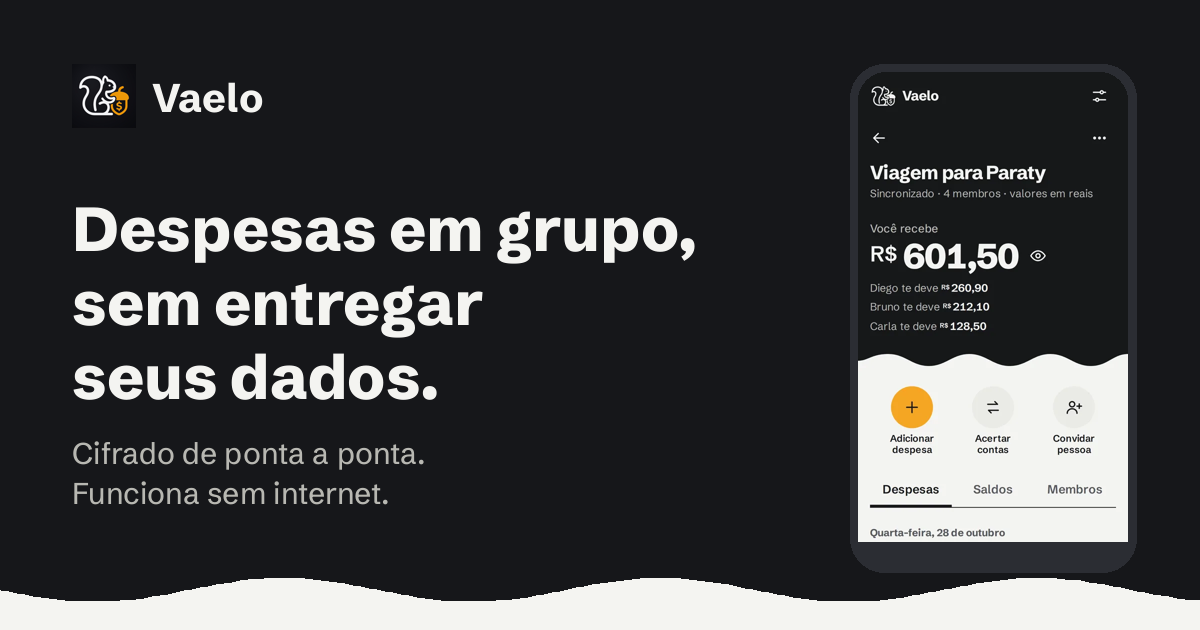
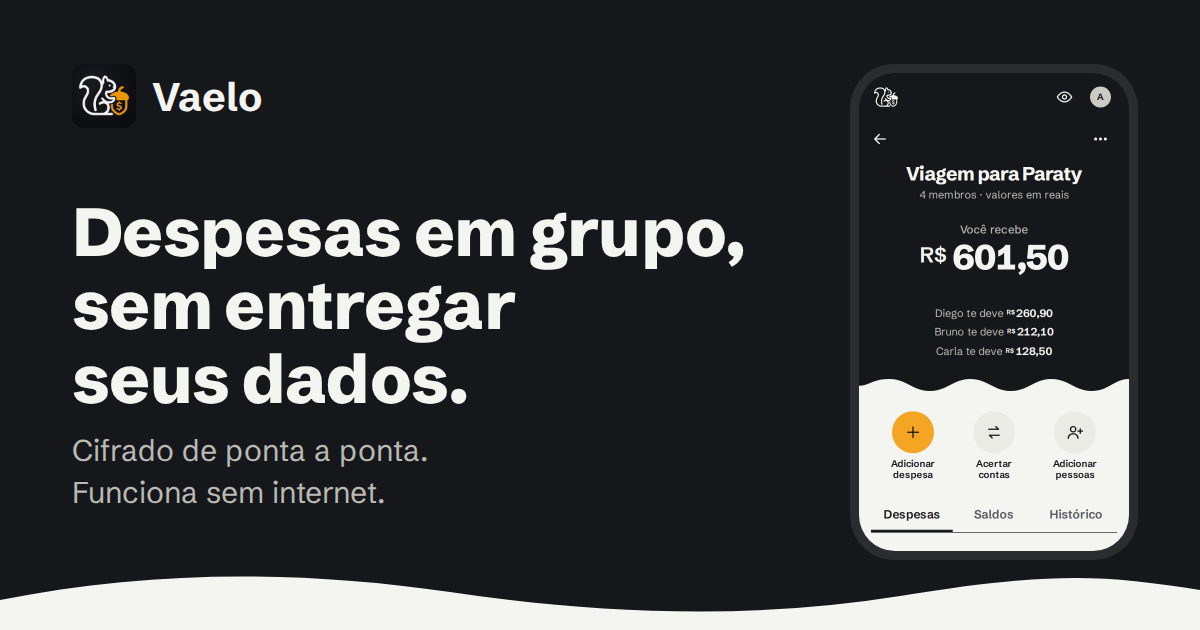
feat(#167): capturas do app no design atual (og.png, tela-1.webp), textos alinhados a D19 e preco do Pro
- og.png e tela-1.webp refeitos da web atual no mesmo cenario e layout; tela-2.webp (sem uso) removida
- IPCA/INPC -> IPCA-15 ou INPC (padrao IPCA-15; IPCA mensal depreciado) na inicial, Pro e llms; '100% Offline' -> 'Funciona sem internet'
- Pro: sem tabular-nums no preco ('R$ 59 , 90' -> 'R$ 59,90')

Refs NexaDuo/vaelo#167

Claude-Session: https://claude.ai/code/session_01DAuwvqBcUW5DKRKffa83Hp

diff --git a/index.html b/index.html
@@ -6,7 +6,7 @@
 <meta http-equiv="Content-Security-Policy" content="default-src 'none'; img-src 'self' https://*.clarity.ms https://c.bing.com; style-src 'self' 'unsafe-inline'; font-src 'self'; script-src 'self' https://*.clarity.ms; connect-src https://*.clarity.ms https://c.bing.com; base-uri 'none'; form-action 'none'">
 <meta name="referrer" content="no-referrer">
 <title>Vaelo: app para dividir despesas em grupo, com privacidade e IPCA</title>
-<meta name="description" content="App para dividir despesas em grupo com dados cifrados nos aparelhos, funcionamento sem internet e correção pelo IPCA/INPC. No celular ou computador.">
+<meta name="description" content="App para dividir despesas em grupo com dados cifrados nos aparelhos, funcionamento sem internet e correção pela inflação (IPCA-15 ou INPC). No celular ou computador.">
 <meta name="keywords" content="dividir despesas, app dividir contas, alternativa splitwise, despesas grupo viagem, rateio de contas, despesas da casa, correção ipca, inpc ibge, splitwise brasileiro, local first, criptografia ponta a ponta, vaelo">
 <meta name="robots" content="index,follow,max-image-preview:large">
 <link rel="canonical" href="https://vaelo.club/">
@@ -16,14 +16,14 @@
 <meta property="og:locale" content="pt_BR">
 <meta property="og:url" content="https://vaelo.club/">
 <meta property="og:title" content="Vaelo: app para dividir despesas em grupo, com privacidade e IPCA">
-<meta property="og:description" content="App para dividir despesas em grupo (viagem, casa, amigos) com dados cifrados nos aparelhos, funcionamento sem internet e correção pela inflação (IPCA/INPC). No celular ou computador.">
+<meta property="og:description" content="App para dividir despesas em grupo (viagem, casa, amigos) com dados cifrados nos aparelhos, funcionamento sem internet e correção pela inflação (IPCA-15 ou INPC). No celular ou computador.">
 <meta property="og:image" content="https://vaelo.club/og.png">
 <meta property="og:image:width" content="1200">
 <meta property="og:image:height" content="630">
 <meta property="og:image:alt" content="Vaelo — aplicativo para dividir despesas em grupo com privacidade e IPCA">
 <meta name="twitter:card" content="summary_large_image">
 <meta name="twitter:title" content="Vaelo: app para dividir despesas em grupo, com privacidade e IPCA">
-<meta name="twitter:description" content="App para dividir despesas em grupo (viagem, casa, amigos) com dados cifrados nos aparelhos, funcionamento sem internet e correção pela inflação (IPCA/INPC). No celular ou computador.">
+<meta name="twitter:description" content="App para dividir despesas em grupo (viagem, casa, amigos) com dados cifrados nos aparelhos, funcionamento sem internet e correção pela inflação (IPCA-15 ou INPC). No celular ou computador.">
 <meta name="twitter:image" content="https://vaelo.club/og.png">
 <meta name="twitter:image:alt" content="Vaelo — aplicativo para dividir despesas em grupo com privacidade e IPCA">
 <meta name="theme-color" content="#16171a">
@@ -635,7 +635,7 @@ main {
           "name": "Plano Gratuito",
           "price": "0",
           "priceCurrency": "BRL",
-          "description": "Até 5 novas despesas por dia em cada grupo, com rateio completo e correção pelo IPCA grátis para sempre.",
+          "description": "Até 5 novas despesas por dia em cada grupo, com rateio completo e correção pela inflação grátis para sempre.",
           "shippingDetails": {
             "@type": "OfferShippingDetails",
             "shippingRate": {
@@ -771,7 +771,7 @@ main {
       "screenshot": "https://vaelo.club/tela-1.webp",
       "featureList": [
         "Divisão de despesas em grupo para viagens, casa e amigos",
-        "Correção monetária oficial pelo IPCA e INPC do IBGE para dívidas antigas",
+        "Correção monetária oficial pelo IPCA-15 ou INPC do IBGE para dívidas antigas",
         "Criptografia de ponta a ponta com dados guardados nos aparelhos (E2EE)",
         "Servidor repassa apenas blocos cifrados, apagados em até 90 dias",
         "A NexaDuo não consegue ler os lançamentos nem os valores",
@@ -803,7 +803,7 @@ main {
           "name": "O Vaelo é gratuito?",
           "acceptedAnswer": {
             "@type": "Answer",
-            "text": "Sim, o Vaelo tem plano gratuito para sempre, com até 5 novas despesas criadas por dia por grupo, todos os 4 tipos de rateio e correção pela inflação (IPCA/INPC) inclusa sem custo. O app não exibe anúncios nem usa ferramentas de rastreamento."
+            "text": "Sim, o Vaelo tem plano gratuito para sempre, com até 5 novas despesas criadas por dia por grupo, todos os 4 tipos de rateio e correção pela inflação (IPCA-15 ou INPC) inclusa sem custo. O app não exibe anúncios nem usa ferramentas de rastreamento."
           }
         },
         {
@@ -819,15 +819,15 @@ main {
           "name": "O Vaelo é uma alternativa ao Splitwise?",
           "acceptedAnswer": {
             "@type": "Answer",
-            "text": "Sim, serve para o mesmo propósito de dividir contas entre amigos, mas resolve os principais problemas do Splitwise: os dados ficam cifrados de ponta a ponta nos aparelhos e o servidor não lê suas contas; inclui correção automática pela inflação brasileira (IPCA e INPC); e no plano Pro, basta uma pessoa assinar para liberar o grupo inteiro para todo mundo."
+            "text": "Sim, serve para o mesmo propósito de dividir contas entre amigos, mas resolve os principais problemas do Splitwise: os dados ficam cifrados de ponta a ponta nos aparelhos e o servidor não lê suas contas; inclui correção automática pela inflação brasileira (IPCA-15 ou INPC); e no plano Pro, basta uma pessoa assinar para liberar o grupo inteiro para todo mundo."
           }
         },
         {
           "@type": "Question",
-          "name": "O Vaelo atualiza dívidas pela inflação (IPCA e INPC)?",
+          "name": "O Vaelo atualiza dívidas pela inflação (IPCA-15 e INPC)?",
           "acceptedAnswer": {
             "@type": "Answer",
-            "text": "Sim. O Vaelo consulta diretamente os índices oficiais do IBGE (SIDRA) para atualizar o valor de despesas antigas pelo IPCA ou INPC. Você escolhe o índice do grupo ou por despesa, e a correção é calculada de forma justa e transparente, sem cobrar nada a mais por isso."
+            "text": "Sim. O Vaelo consulta diretamente os índices oficiais do IBGE (SIDRA) para atualizar o valor de despesas antigas pelo IPCA-15 (o padrão) ou pelo INPC. Você escolhe o índice do grupo ou por despesa, e a correção é calculada de forma justa e transparente, sem cobrar nada a mais por isso."
           }
         },
         {
@@ -926,7 +926,7 @@ main {
     </li>
     <li class="stone-row">
       <span class="stone-bullet" aria-hidden="true"></span>
-      <h2>Correção oficial por IPCA e INPC</h2>
+      <h2>Correção oficial por IPCA-15 e INPC</h2>
       <p class="stone-desc">Dívidas antigas não perdem valor: o Vaelo busca os índices oficiais do IBGE e atualiza os saldos pela inflação automaticamente, de graça.</p>
     </li>
     <li class="stone-row">
@@ -981,7 +981,7 @@ main {
       </details>
       <details class="faq-item">
         <summary class="faq-summary">O Vaelo é gratuito?</summary>
-        <p class="faq-desc">Sim, o Vaelo tem plano gratuito para sempre, com até 5 novas despesas criadas por dia por grupo, todos os 4 tipos de rateio e correção pela inflação (IPCA/INPC) inclusa sem custo. O app não exibe anúncios nem usa ferramentas de rastreamento.</p>
+        <p class="faq-desc">Sim, o Vaelo tem plano gratuito para sempre, com até 5 novas despesas criadas por dia por grupo, todos os 4 tipos de rateio e correção pela inflação (IPCA-15 ou INPC) inclusa sem custo. O app não exibe anúncios nem usa ferramentas de rastreamento.</p>
       </details>
       <details class="faq-item">
         <summary class="faq-summary">Como funciona o plano Vaelo Pro?</summary>
@@ -989,11 +989,11 @@ main {
       </details>
       <details class="faq-item">
         <summary class="faq-summary">O Vaelo é uma alternativa ao Splitwise?</summary>
-        <p class="faq-desc">Sim, serve para o mesmo propósito de dividir contas entre amigos, mas resolve os principais problemas do Splitwise: os dados ficam cifrados de ponta a ponta nos aparelhos e o servidor não lê suas contas; inclui correção automática pela inflação brasileira (IPCA e INPC); e no plano Pro, basta uma pessoa assinar para liberar o grupo inteiro para todo mundo.</p>
+        <p class="faq-desc">Sim, serve para o mesmo propósito de dividir contas entre amigos, mas resolve os principais problemas do Splitwise: os dados ficam cifrados de ponta a ponta nos aparelhos e o servidor não lê suas contas; inclui correção automática pela inflação brasileira (IPCA-15 ou INPC); e no plano Pro, basta uma pessoa assinar para liberar o grupo inteiro para todo mundo.</p>
       </details>
       <details class="faq-item">
-        <summary class="faq-summary">O Vaelo atualiza dívidas pela inflação (IPCA e INPC)?</summary>
-        <p class="faq-desc">Sim. O Vaelo consulta diretamente os índices oficiais do IBGE (SIDRA) para atualizar o valor de despesas antigas pelo IPCA ou INPC. Você escolhe o índice do grupo ou por despesa, e a correção é calculada de forma justa e transparente, sem cobrar nada a mais por isso.</p>
+        <summary class="faq-summary">O Vaelo atualiza dívidas pela inflação (IPCA-15 e INPC)?</summary>
+        <p class="faq-desc">Sim. O Vaelo consulta diretamente os índices oficiais do IBGE (SIDRA) para atualizar o valor de despesas antigas pelo IPCA-15 (o padrão) ou pelo INPC. Você escolhe o índice do grupo ou por despesa, e a correção é calculada de forma justa e transparente, sem cobrar nada a mais por isso.</p>
       </details>
       <details class="faq-item">
         <summary class="faq-summary">Meus dados ficam salvos onde? Vocês conseguem ver minhas despesas?</summary>

diff --git a/pro/index.html b/pro/index.html
@@ -240,7 +240,7 @@ main p a, main li a {
   font-weight: 650;
 }
 .price { margin: .25rem 0 .5rem; }
-.price strong { font-size: 1.5rem; letter-spacing: -.02em; font-variant-numeric: tabular-nums; }
+.price strong { font-size: 1.5rem; letter-spacing: -.02em; }
 .payment-note {
   font-size: .85rem;
   color: var(--muted);
@@ -575,10 +575,10 @@ main p a, main li a {
       "mainEntity": [
         {
           "@type": "Question",
-          "name": "Preciso pagar para usar o IPCA?",
+          "name": "Preciso pagar para corrigir pela inflação?",
           "acceptedAnswer": {
             "@type": "Answer",
-            "text": "Não. A correção pelo IPCA é grátis para sempre."
+            "text": "Não. A correção pela inflação (IPCA-15 ou INPC) é grátis para sempre."
           }
         },
         {
@@ -637,7 +637,7 @@ main p a, main li a {
 <p class="muted">Uma pessoa assina e o grupo inteiro fica livre.</p>
 <section aria-labelledby="free-title">
 <h2 id="free-title">O que é grátis para sempre</h2>
-<p>Dividir despesas, os 4 tipos de rateio (partes iguais, valores exatos, porcentagem e cotas), simplificação de dívidas e <strong>correção pelo IPCA</strong>. Cada grupo pode criar até 5 despesas novas por dia.</p>
+<p>Dividir despesas, os 4 tipos de rateio (partes iguais, valores exatos, porcentagem e cotas), simplificação de dívidas e <strong>correção pela inflação (IPCA-15 ou INPC)</strong>. Cada grupo pode criar até 5 despesas novas por dia.</p>
 </section>
 <section aria-labelledby="pro-title">
 <h2 id="pro-title">O que o Pro libera</h2>
@@ -688,8 +688,8 @@ main p a, main li a {
 <h2 id="faq-title">Perguntas frequentes</h2>
 <div class="faq-list">
   <details class="faq-item">
-    <summary class="faq-summary">Preciso pagar para usar o IPCA?</summary>
-    <p class="faq-desc">Não. A correção pelo IPCA é grátis para sempre.</p>
+    <summary class="faq-summary">Preciso pagar para corrigir pela inflação?</summary>
+    <p class="faq-desc">Não. A correção pela inflação (IPCA-15 ou INPC) é grátis para sempre.</p>
   </details>
   <details class="faq-item">
     <summary class="faq-summary">Quem do grupo precisa pagar?</summary>
